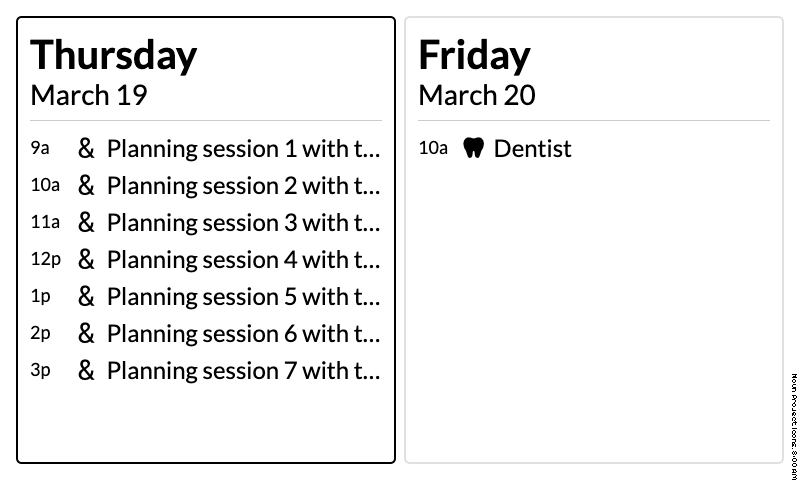
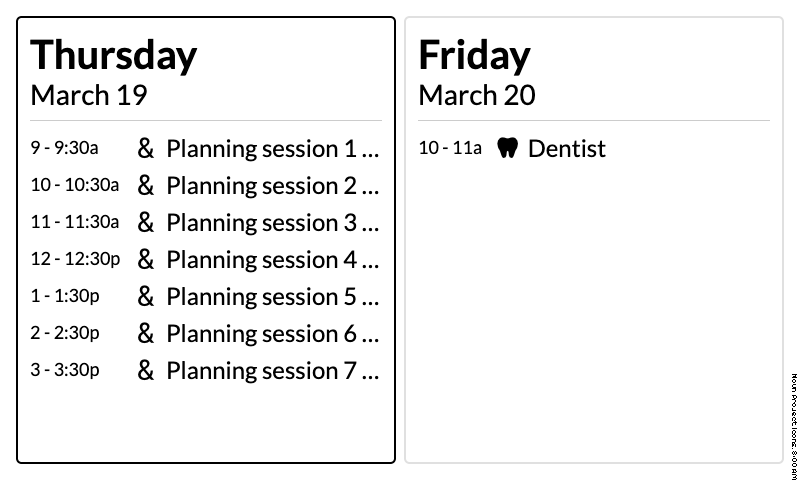
compact time format

diff --git a/engine/test/models/demo_device_content_test.rb b/engine/test/models/demo_device_content_test.rb
@@ -233,7 +233,43 @@ class DemoDeviceContentTest < Minitest::Test
 
       today = result[:day_groups][0]
       assert today[:clothing], "Expected clothing forecast data"
-      assert %w[shorts pants].include?(today[:clothing][:icon])
+      assert_equal "shorts", today[:clothing][:icon]
+      assert_equal "Shorts", today[:clothing][:summary]
+      assert_equal "tshirt", today[:clothing][:shirt_icon]
+      assert_equal "T-shirt", today[:clothing][:shirt_summary]
+    end
+  end
+
+  def test_clothing_forecast_demo_pants_with_long_sleeves
+    travel_to DateTime.new(2026, 3, 19, 8, 0, 0, "-0500") do
+      result = demo_clothing_result(morning_temp: 45, noon_temp: 50)
+
+      today = result[:day_groups][0]
+      assert_equal "pants", today[:clothing][:icon]
+      assert_equal "Pants", today[:clothing][:summary]
+      assert_equal "long-sleeve-shirt", today[:clothing][:shirt_icon]
+      assert_equal "Long sleeves", today[:clothing][:shirt_summary]
+    end
+  end
+
+  def test_clothing_forecast_demo_daily_high_guardrail_allows_short_sleeves_with_pants
+    travel_to DateTime.new(2026, 3, 19, 8, 0, 0, "-0500") do
+      result = demo_clothing_result(morning_temp: 66, noon_temp: 68, daily_summary: "62° / 45°")
+
+      today = result[:day_groups][0]
+      assert_equal "pants", today[:clothing][:icon]
+      assert_equal "Pants", today[:clothing][:summary]
+      assert_equal "tshirt", today[:clothing][:shirt_icon]
+      assert_equal "T-shirt", today[:clothing][:shirt_summary]
+    end
+  end
+
+  def test_clothing_forecast_demo_omits_clothing_without_morning_weather
+    travel_to DateTime.new(2026, 3, 19, 8, 0, 0, "-0500") do
+      result = demo_clothing_result(morning_temp: nil, noon_temp: 68)
+
+      today = result[:day_groups][0]
+      assert_nil today[:clothing]
     end
   end
 
@@ -256,5 +292,61 @@ class DemoDeviceContentTest < Minitest::Test
       assert weather_event, "Expected a demo weather event"
       assert_equal "weather-partly-cloudy", weather_event[:icon_class]
     end
+  end
+
+  private
+
+  def demo_clothing_result(morning_temp:, noon_temp:, daily_summary: "72° / 50°")
+    content = DemoDeviceContent.new
+    content.define_singleton_method(:events_for_day) do |_day_index, date, _current_time, _vacation, timezone, include_wind: true|
+      daily = [
+        DeviceEvent.new(
+          id: "_ha_weather_day_#{date.to_i}",
+          starts_at: date.beginning_of_day,
+          ends_at: (date + 1.day).beginning_of_day,
+          summary: daily_summary,
+          icon: "weather-partly-cloudy",
+          daily: true,
+          timezone: timezone
+        )
+      ]
+      periodic = []
+      if morning_temp
+        periodic << DeviceEvent.new(
+          id: "_ha_weather_hour_#{date.change(hour: 8).to_i}",
+          starts_at: date.change(hour: 8),
+          ends_at: date.change(hour: 8),
+          summary: "#{morning_temp}°",
+          icon: "weather-cloudy",
+          timezone: timezone
+        )
+      end
+      periodic << DeviceEvent.new(
+        id: "_ha_weather_hour_#{date.change(hour: 12).to_i}",
+        starts_at: date.change(hour: 12),
+        ends_at: date.change(hour: 12),
+        summary: "#{noon_temp}°",
+        icon: "weather-cloudy",
+        timezone: timezone
+      )
+      periodic << DeviceEvent.new(
+        id: "_ha_weather_hour_#{date.change(hour: 16).to_i}",
+        starts_at: date.change(hour: 16),
+        ends_at: date.change(hour: 16),
+        summary: "#{noon_temp}°",
+        icon: "weather-cloudy",
+        timezone: timezone
+      )
+
+      {daily: daily, periodic: periodic}
+    end
+
+    content.call(
+      timezone: "America/Chicago",
+      days: 1,
+      weather_row: true,
+      clothing_forecast: true,
+      always_show_today: true
+    )
   end
 end

diff --git a/engine/test/components/devices/compact_event_times_component_test.rb b/engine/test/components/devices/compact_event_times_component_test.rb
@@ -1,0 +1,87 @@
+# frozen_string_literal: true
+
+require "test_helper"
+
+class CompactEventTimesComponentTest < ActiveSupport::TestCase
+  test "two day periodic events show shorthand start and end time" do
+    html = render_component(
+      Devices::TwoDayComponent,
+      events: [
+        event(time_html: "6-6:30p", start_time: "6p", full_start_time: "6:00pm", full_time: "6:00pm - 6:30pm")
+      ],
+      configuration: {
+        "show_all_events" => "true",
+        "show_event_times" => "true",
+        "show_icons" => "false"
+      }
+    )
+
+    assert_includes html, "6-6:30p"
+    refute_includes html, "6:00pm"
+  end
+
+  test "three day periodic events show shorthand start and end time" do
+    html = render_component(
+      Devices::ThreeDayComponent,
+      events: [
+        event(time_html: "6-6:30p", start_time: "6p", full_start_time: "6:00pm", full_time: "6:00pm - 6:30pm")
+      ]
+    )
+
+    assert_includes html, "6-6:30p"
+    refute_includes html, "6:00pm"
+  end
+
+  test "three day ranged periodic events do not use longhand time" do
+    html = render_component(
+      Devices::ThreeDayComponent,
+      events: [
+        event(time_html: "2-4p", full_time: "2:00pm - 4:00pm", weather_ranged: true)
+      ]
+    )
+
+    assert_includes html, "2-4p"
+    refute_includes html, "2:00pm"
+  end
+
+  private
+
+  def render_component(component_class, events:, configuration: {})
+    ApplicationController.render(
+      component_class.new(
+        view_object: {
+          private_mode: false,
+          current_time: Time.zone.local(2026, 5, 23, 8, 0, 0),
+          configuration: {
+            "show_all_events" => "true",
+            "show_icons" => "false"
+          }.merge(configuration),
+          day_groups: [
+            {
+              date: Date.new(2026, 5, 23),
+              day_name: "Today",
+              weather_row: [],
+              show_daily: false,
+              daily: [],
+              periodic: events
+            }
+          ],
+          timestamp: "8:00 AM",
+          attribution: ""
+        }
+      ),
+      layout: false
+    )
+  end
+
+  def event(overrides = {})
+    {
+      summary: "Dinner",
+      time_html: "6-6:30p",
+      start_time: "6p",
+      full_start_time: "6:00pm",
+      full_time: "6:00pm - 6:30pm",
+      weather_ranged: false
+    }.merge(overrides)
+  end
+end

diff --git a/test/models/device_content_test.rb b/test/models/device_content_test.rb
@@ -363,19 +363,21 @@ class DeviceContenttTest < Minitest::Test
             today = result[:day_groups].find { |d| d[:day_name] == "Today" }
             assert_equal "Shorts", today[:clothing][:summary]
             assert_equal "shorts", today[:clothing][:icon]
+            assert_equal "T-shirt", today[:clothing][:shirt_summary]
+            assert_equal "tshirt", today[:clothing][:shirt_icon]
           end
         end
       end
     end
   end
 
-  def test_clothing_forecast_pants_when_cold
+  def test_clothing_forecast_pants_with_short_sleeves_when_noon_above_shirt_threshold
     travel_to DateTime.new(2023, 8, 27, 7, 0, 0, "-0600") do
       api = new_test_api
       tz = "America/Denver"
       weather_events = [
         DeviceEvent.new(id: "_ha_weather_hour_1", starts_at: DateTime.new(2023, 8, 27, 8, 0, 0, "-0600"), ends_at: DateTime.new(2023, 8, 27, 8, 0, 0, "-0600"), summary: "45°", icon: "weather-cloudy", timezone: tz),
-        DeviceEvent.new(id: "_ha_weather_hour_2", starts_at: DateTime.new(2023, 8, 27, 12, 0, 0, "-0600"), ends_at: DateTime.new(2023, 8, 27, 12, 0, 0, "-0600"), summary: "55°", icon: "weather-cloudy", timezone: tz),
+        DeviceEvent.new(id: "_ha_weather_hour_2", starts_at: DateTime.new(2023, 8, 27, 12, 0, 0, "-0600"), ends_at: DateTime.new(2023, 8, 27, 12, 0, 0, "-0600"), summary: "51°", icon: "weather-cloudy", timezone: tz),
         DeviceEvent.new(id: "_ha_weather_hour_3", starts_at: DateTime.new(2023, 8, 27, 16, 0, 0, "-0600"), ends_at: DateTime.new(2023, 8, 27, 16, 0, 0, "-0600"), summary: "50°", icon: "weather-cloudy", timezone: tz)
       ]
       api.stub :calendars_healthy?, false do
@@ -386,6 +388,33 @@ class DeviceContenttTest < Minitest::Test
             today = result[:day_groups].find { |d| d[:day_name] == "Today" }
             assert_equal "Pants", today[:clothing][:summary]
             assert_equal "pants", today[:clothing][:icon]
+            assert_equal "T-shirt", today[:clothing][:shirt_summary]
+            assert_equal "tshirt", today[:clothing][:shirt_icon]
+          end
+        end
+      end
+    end
+  end
+
+  def test_clothing_forecast_pants_with_long_sleeves_at_shirt_threshold
+    travel_to DateTime.new(2023, 8, 27, 7, 0, 0, "-0600") do
+      api = new_test_api
+      tz = "America/Denver"
+      weather_events = [
+        DeviceEvent.new(id: "_ha_weather_hour_1", starts_at: DateTime.new(2023, 8, 27, 8, 0, 0, "-0600"), ends_at: DateTime.new(2023, 8, 27, 8, 0, 0, "-0600"), summary: "45°", icon: "weather-cloudy", timezone: tz),
+        DeviceEvent.new(id: "_ha_weather_hour_2", starts_at: DateTime.new(2023, 8, 27, 12, 0, 0, "-0600"), ends_at: DateTime.new(2023, 8, 27, 12, 0, 0, "-0600"), summary: "50°", icon: "weather-cloudy", timezone: tz),
+        DeviceEvent.new(id: "_ha_weather_hour_3", starts_at: DateTime.new(2023, 8, 27, 16, 0, 0, "-0600"), ends_at: DateTime.new(2023, 8, 27, 16, 0, 0, "-0600"), summary: "50°", icon: "weather-cloudy", timezone: tz)
+      ]
+      api.stub :calendars_healthy?, false do
+        api.stub :private_mode?, false do
+          api.stub :calendar_events, weather_events do
+            result = DeviceContent.new.call(home_assistant_api: api, weather_row: true, clothing_forecast: true, always_show_today: true)
+
+            today = result[:day_groups].find { |d| d[:day_name] == "Today" }
+            assert_equal "Pants", today[:clothing][:summary]
+            assert_equal "pants", today[:clothing][:icon]
+            assert_equal "Long sleeves", today[:clothing][:shirt_summary]
+            assert_equal "long-sleeve-shirt", today[:clothing][:shirt_icon]
           end
         end
       end
@@ -433,6 +462,8 @@ class DeviceContenttTest < Minitest::Test
             # Hourly temps say shorts, but daily high (62) < 65 threshold, so pants
             assert_equal "Pants", today[:clothing][:summary]
             assert_equal "pants", today[:clothing][:icon]
+            assert_equal "T-shirt", today[:clothing][:shirt_summary]
+            assert_equal "tshirt", today[:clothing][:shirt_icon]
           end
         end
       end
@@ -455,6 +486,32 @@ class DeviceContenttTest < Minitest::Test
 
             today = result[:day_groups].find { |d| d[:day_name] == "Today" }
             assert_equal "Shorts", today[:clothing][:summary]
+            assert_equal "tshirt", today[:clothing][:shirt_icon]
+          end
+        end
+      end
+    end
+  end
+
+  def test_clothing_forecast_celsius_pants_with_short_sleeves_above_threshold
+    travel_to DateTime.new(2023, 8, 27, 7, 0, 0, "-0600") do
+      api = new_test_api(TimeframeConfig.new(temperature_unit: "C"))
+      tz = "America/Denver"
+      weather_events = [
+        DeviceEvent.new(id: "_ha_weather_hour_1", starts_at: DateTime.new(2023, 8, 27, 8, 0, 0, "-0600"), ends_at: DateTime.new(2023, 8, 27, 8, 0, 0, "-0600"), summary: "9°", icon: "weather-cloudy", timezone: tz),
+        DeviceEvent.new(id: "_ha_weather_hour_2", starts_at: DateTime.new(2023, 8, 27, 12, 0, 0, "-0600"), ends_at: DateTime.new(2023, 8, 27, 12, 0, 0, "-0600"), summary: "11°", icon: "weather-cloudy", timezone: tz),
+        DeviceEvent.new(id: "_ha_weather_hour_3", starts_at: DateTime.new(2023, 8, 27, 16, 0, 0, "-0600"), ends_at: DateTime.new(2023, 8, 27, 16, 0, 0, "-0600"), summary: "12°", icon: "weather-cloudy", timezone: tz)
+      ]
+      api.stub :calendars_healthy?, false do
+        api.stub :private_mode?, false do
+          api.stub :calendar_events, weather_events do
+            result = DeviceContent.new.call(home_assistant_api: api, weather_row: true, clothing_forecast: true, always_show_today: true)
+
+            today = result[:day_groups].find { |d| d[:day_name] == "Today" }
+            assert_equal "Pants", today[:clothing][:summary]
+            assert_equal "pants", today[:clothing][:icon]
+            assert_equal "T-shirt", today[:clothing][:shirt_summary]
+            assert_equal "tshirt", today[:clothing][:shirt_icon]
           end
         end
       end

diff --git a/app/models/device_content.rb b/app/models/device_content.rb
@@ -49,6 +49,10 @@ class DeviceContent
       (home_assistant_api.temperature_unit == "C") ? 18 : 65
     end
 
+    clothing_shirt_threshold = if clothing_forecast
+      (home_assistant_api.temperature_unit == "C") ? 10 : 50
+    end
+
     if home_assistant_api.weather_healthy?
       raw_events << home_assistant_api.hourly_calendar_events
       raw_events << home_assistant_api.daily_calendar_events if include_daily_weather
@@ -143,7 +147,13 @@ class DeviceContent
               daily_high = daily_weather ? daily_weather.summary.to_i : nil
               is_shorts = morning_temp >= clothing_threshold && noon_temp >= clothing_noon_threshold
               is_shorts = false if daily_high && daily_high < clothing_noon_threshold
-              clothing_data = {icon: is_shorts ? "shorts" : "pants", summary: is_shorts ? "Shorts" : "Pants"}
+              short_sleeves = is_shorts || noon_temp > clothing_shirt_threshold
+              clothing_data = {
+                icon: is_shorts ? "shorts" : "pants",
+                summary: is_shorts ? "Shorts" : "Pants",
+                shirt_icon: short_sleeves ? "tshirt" : "long-sleeve-shirt",
+                shirt_summary: short_sleeves ? "T-shirt" : "Long sleeves"
+              }
             end
           end
         end

diff --git a/test/controllers/devices_controller_test.rb b/test/controllers/devices_controller_test.rb
@@ -243,18 +243,17 @@ class DevicesControllerTest < ActionDispatch::IntegrationTest
     mock_image = Object.new
     mock_image.define_singleton_method(:to_blob) { fake_blob }
 
-    original_create = MiniMagick::Image.method(:create)
-    MiniMagick::Image.define_singleton_method(:create) do |ext, &block|
+    image_creator = ->(ext, &block) do
       tempfile = Tempfile.new(["test", ext])
       block&.call(tempfile)
       mock_image
     end
 
-    MiniMagick.stub(:convert, ->(&blk) { blk&.call(null_convert) }) do
-      get confirmation_image_account_location_device_path(@account, @location, device)
+    MiniMagick::Image.stub(:create, image_creator) do
+      MiniMagick.stub(:convert, ->(&blk) { blk&.call(null_convert) }) do
+        get confirmation_image_account_location_device_path(@account, @location, device)
+      end
     end
-
-    MiniMagick::Image.define_singleton_method(:create, original_create)
 
     assert_response :success
   end

diff --git a/engine/app/models/demo_device_content.rb b/engine/app/models/demo_device_content.rb
@@ -130,7 +130,13 @@ class DemoDeviceContent
             # :nocov:
             is_shorts = morning_temp >= 55 && noon_temp >= 65
             is_shorts = false if daily_high && daily_high < 65
-            clothing_data = {icon: is_shorts ? "shorts" : "pants", summary: is_shorts ? "Shorts" : "Pants"}
+            short_sleeves = is_shorts || noon_temp > 50
+            clothing_data = {
+              icon: is_shorts ? "shorts" : "pants",
+              summary: is_shorts ? "Shorts" : "Pants",
+              shirt_icon: short_sleeves ? "tshirt" : "long-sleeve-shirt",
+              shirt_summary: short_sleeves ? "T-shirt" : "Long sleeves"
+            }
           end
         end
       end